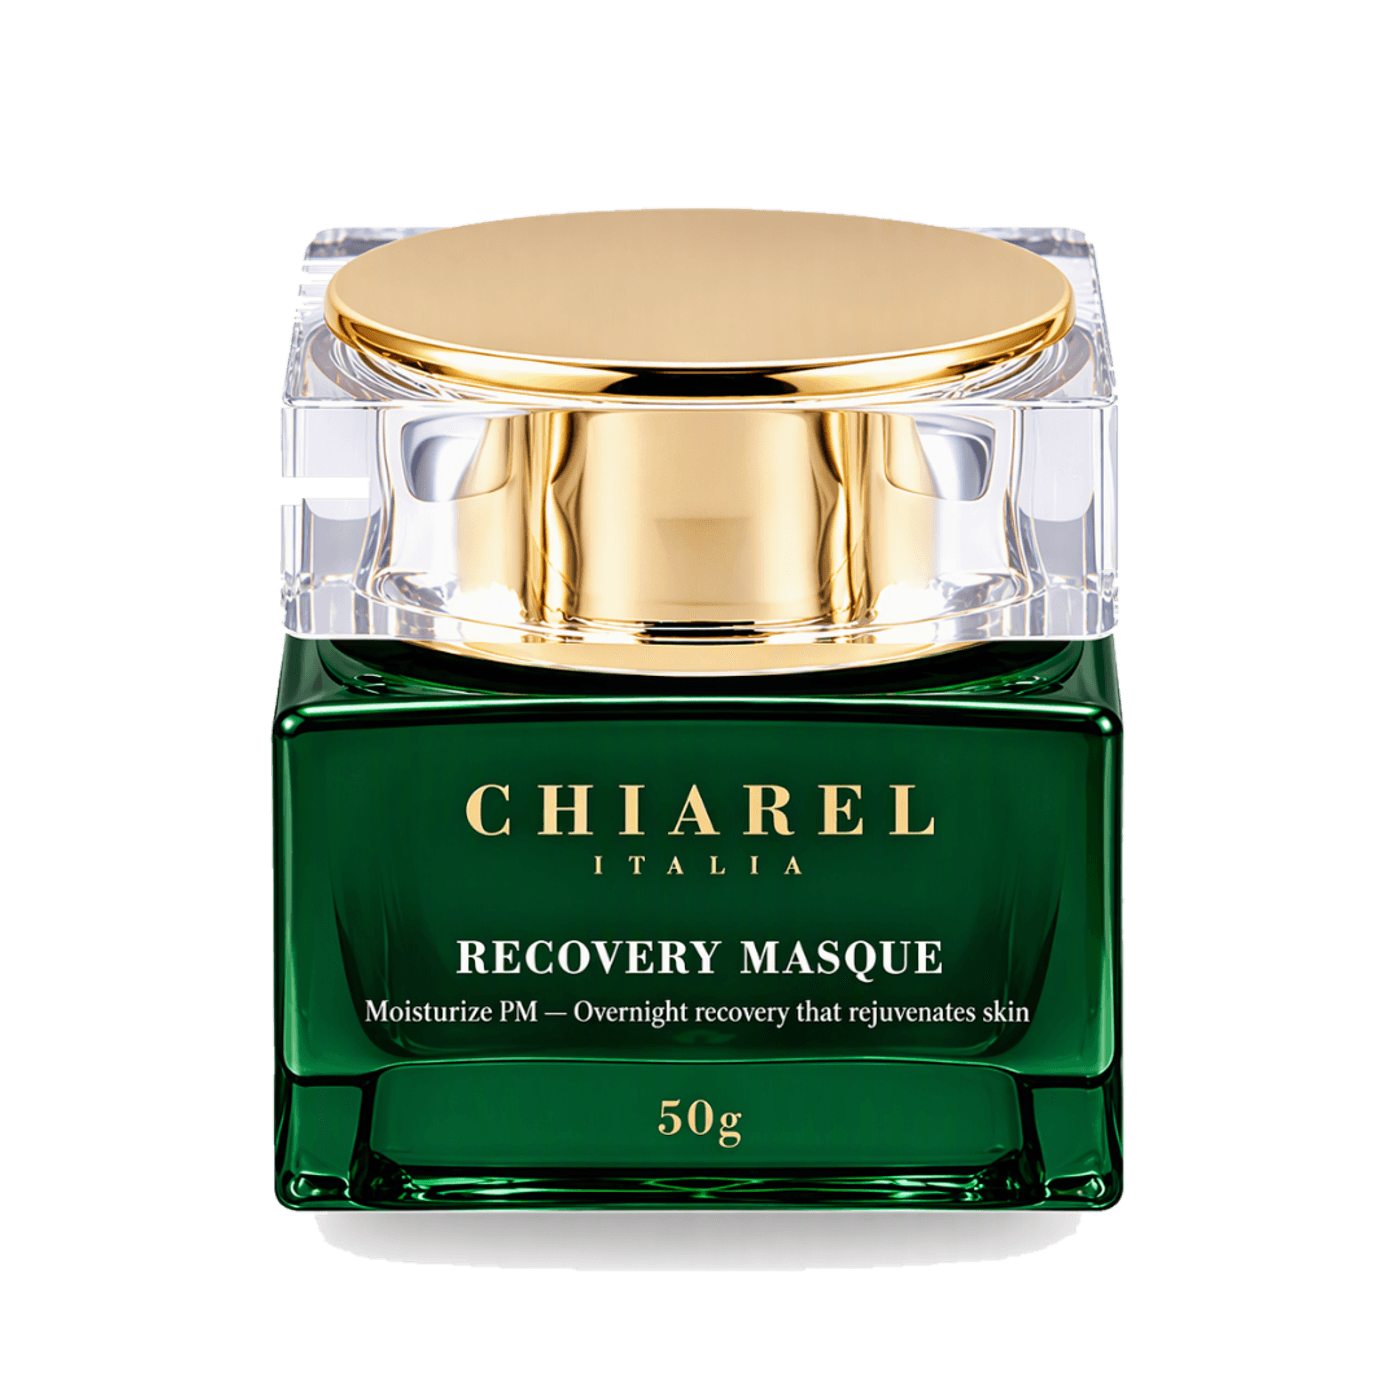
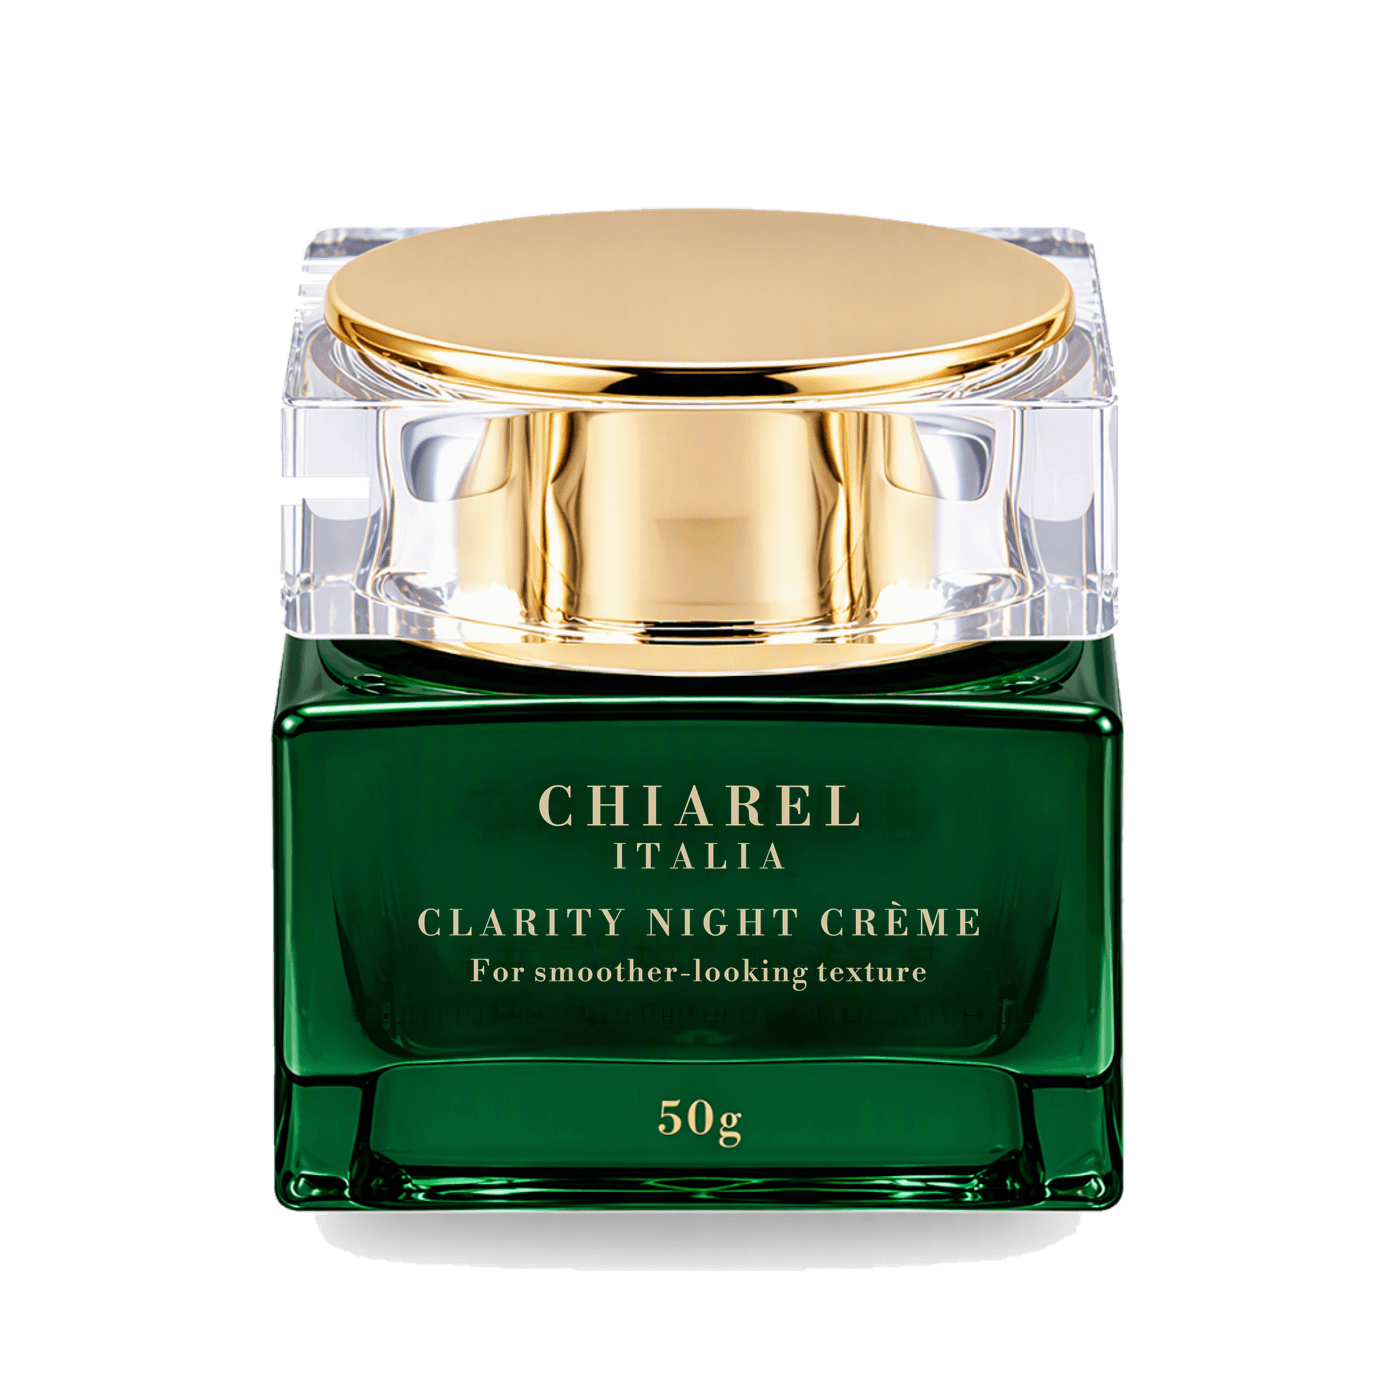
Packshots carry the V19 Clarity artwork (#90)
* Packshots carry the V19 Clarity artwork (names, concern lines, Eye in Peach Dust)

Label text redrawn from the V19 artwork files over the existing renders:
CHIAREL ITALIA, product name and concern line. The Eye bottle is recoloured to
Peach Dust with the deeper gold ink, as RFQ V19 specifies.

* Add learning: owner rules on claims, quotes and V19 artwork

---------

Changed region(s): [[0.2457, 0.5529, 0.7371, 0.7371]]

diff --git a/.trail/learnings/2026-10-24-owner-rules-never-claim-ophthalmologist-tested-shams.md b/.trail/learnings/2026-10-24-owner-rules-never-claim-ophthalmologist-tested-shams.md
@@ -1,0 +1,22 @@
+---
+title: "Owner rules: never claim ophthalmologist tested; supplier quotes are not website blockers; V19 artwork lives in Downloads CHIAREL_V19_Fuyao"
+author: Shams
+date: 2026-10-24
+branch: feat/v19-packshots
+id: l-c0780879
+scope: repo
+status: active
+src: agent
+touches:
+  - public/assets/products/eye-contour-concentrate-jar.png
+  - public/assets/products/chiarel-essence-jar.png
+---
+
+## Decided
+The owner said the Eye Contour Concentrate is not ophthalmologist tested and nothing may claim it (the master brief's glass line mentions it, ignore that). Supplier and carrier quotes are not website blockers, so do not list them as open website items. The final packaging artwork is RFQ V19 in Downloads\CHIAREL_V19_Fuyao (artwork SVGs, proof PDF): the site packshots keep the same file names and carry that lettering (CHIAREL / ITALIA, Clarity name, concern line). Glass colours are binding from V19: Red Ochre #913832, Formal Garden #1F5129, Peach Dust #F0D8CC; the Eye bottle is Peach Dust with ink #9B7B2E.
+
+## Tried and ruled out
+Heavier inpainting of old label text with horizontal/vertical interpolation smeared across sharp glass edges near the base arc of the jars and bottles; leaving the correct size text (40ml, 50g) in place and only erasing wrong text avoided those edges. The V19 SVGs are flat label art, not product photos, so packshots are composites on the old renders, not new photography.
+
+## Watch out
+Studio and lifestyle photos (essence/terra/masque studio, N1 marble and honeycomb, terra editorial/capri) still show old product names and cannot be fixed from the artwork. The host CDN can keep an old image for returning visitors because it overrides revalidation on /assets.
